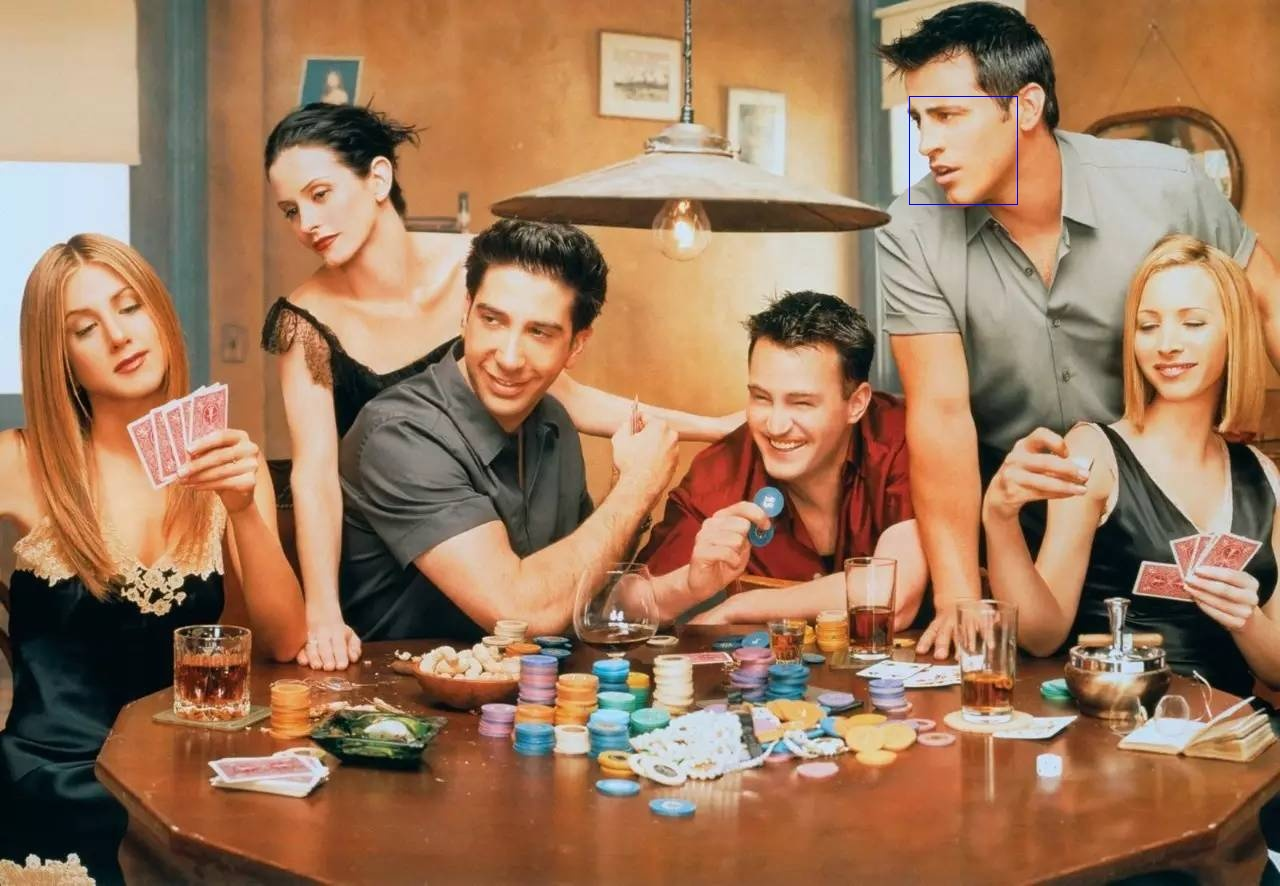
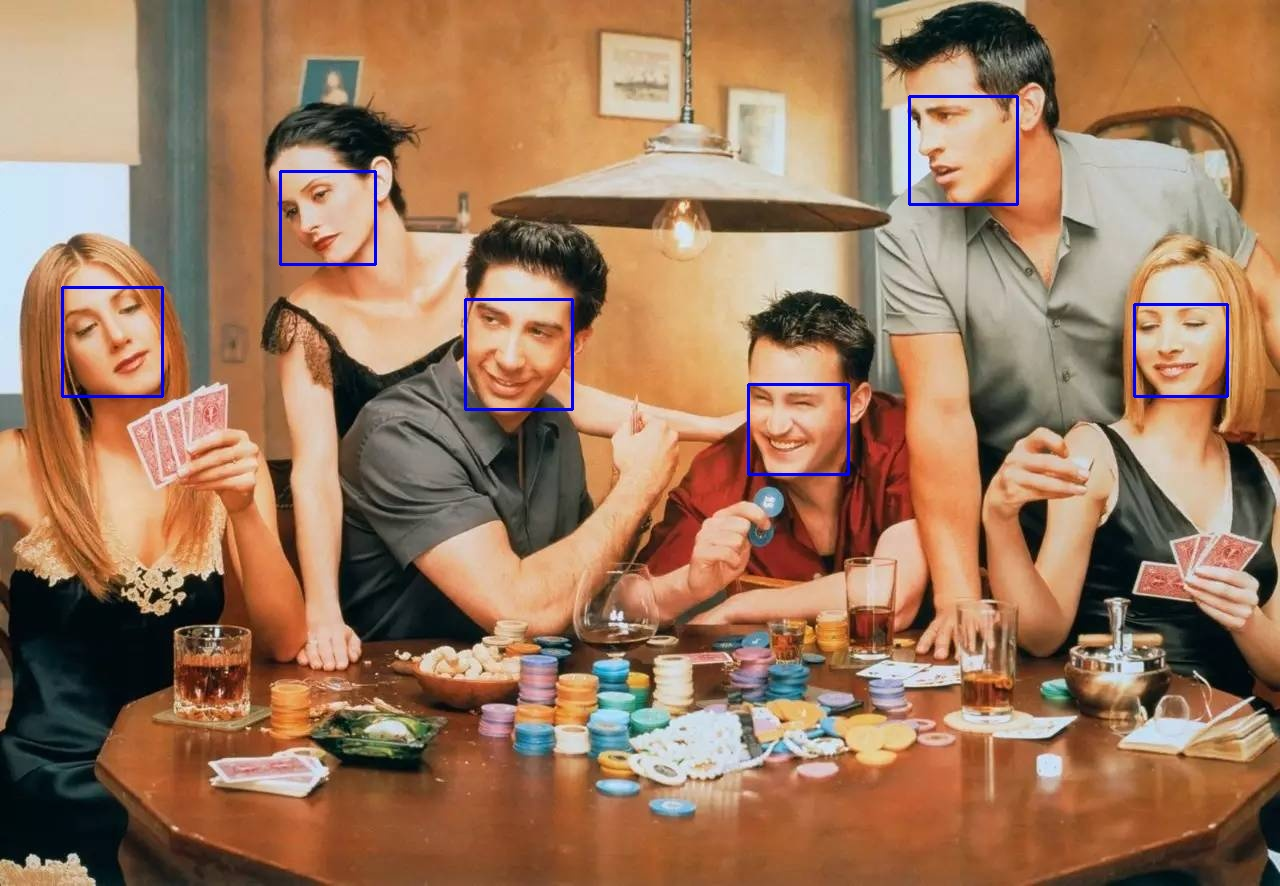
[fix] multi faces boxes.

diff --git a/inspireface/demo.cpp b/inspireface/demo.cpp
@@ -71,19 +71,25 @@ int main(int argc, char* argv[]){
 //        PHFFaceBasicToken tokens;  ///< Tokens associated with each face.
 //    } HFMultipleFaceData, *PHFMultipleFaceData;
 
-    std::cout<<multipleFaceData.rects->x<<std::endl;
-    std::cout<<multipleFaceData.rects->y<<std::endl;
-    std::cout<<multipleFaceData.rects->width<<std::endl;
-    std::cout<<multipleFaceData.rects->height<<std::endl;
-    std::cout<<multipleFaceData.angles.roll<<std::endl;
+    for (int i = 0; i < faceNum; i++) {
+        std::cout << "Face " << i << ": "
+                  << "x=" << multipleFaceData.rects[i].x
+                  << ", y=" << multipleFaceData.rects[i].y
+                  << ", w=" << multipleFaceData.rects[i].width
+                  << ", h=" << multipleFaceData.rects[i].height
+                  << ", roll=" << multipleFaceData.angles.roll[i]
+                  << std::endl;
+    }
 
     cv::Mat img = cv::imread(sourcePath);
-    cv::Rect rect;
-    rect.height = multipleFaceData.rects->height;
-    rect.width = multipleFaceData.rects->width;
-    rect.x = multipleFaceData.rects->x;
-    rect.y = multipleFaceData.rects->y;
-    cv::rectangle(img,rect,{255,0,0},1);
+    for (int i = 0; i < faceNum; i++) {
+        cv::Rect rect;
+        rect.x = multipleFaceData.rects[i].x;
+        rect.y = multipleFaceData.rects[i].y;
+        rect.width = multipleFaceData.rects[i].width;
+        rect.height = multipleFaceData.rects[i].height;
+        cv::rectangle(img, rect, {255, 0, 0}, 2);
+    }
     cv::imwrite("output.jpg", img);
 
     ret = HFReleaseImageBitmap(image);
